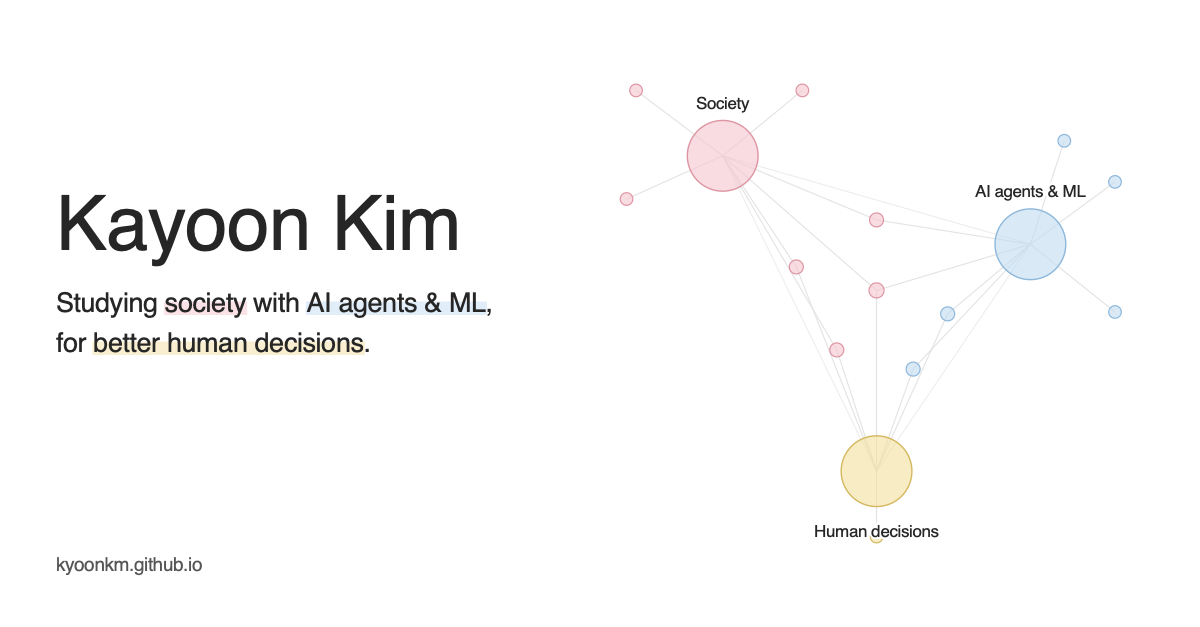
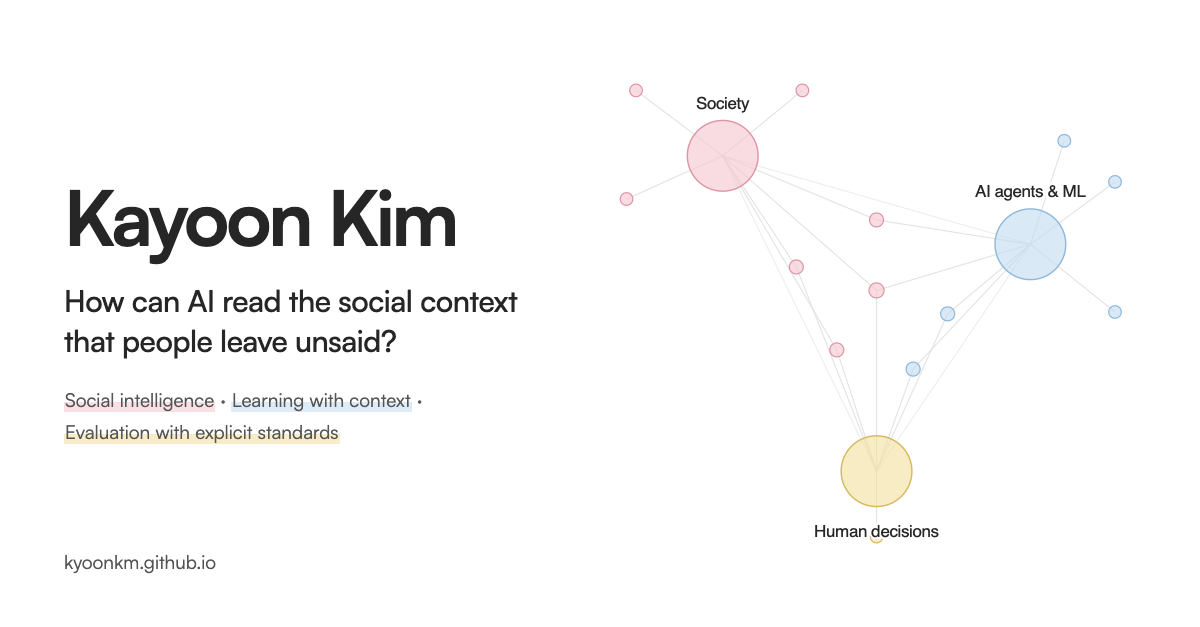
Update bio, tagline and research interests to match the SOP
- Bio: M.S. completed (2026); RML group at ELLIS/MPI-IS is now past tense
- Tagline: "How can AI read the social context that people leave unsaid?"
- Research areas renamed to Social intelligence, Learning with context,
  Evaluation with explicit standards, shown as filters under the tagline
- HALLMARK links to arXiv; Sim-DSE shown as AutomotiveUI '26 Adjunct
  (Works in Progress) with co-first authors marked
- Petition-claims poster has no PDF, so it is no longer a link
- Drop the unused "interviews" method that broke the dev-mode data check
- Refresh the link-preview card text; footer dated November 2026

diff --git a/data/research-graph.ts b/data/research-graph.ts
@@ -18,6 +18,8 @@ export type WorkType =
   | "Manuscript"
   | "Work in progress"
   | "Poster"
+  /** Adjunct proceedings. The venue names it, so the type label is not printed. */
+  | "Adjunct"
   | "Project";
 
 export interface Area {
@@ -87,37 +89,38 @@ export interface Work {
   featured?: boolean;
   /** At most 140 characters. */
   summary: string;
-  href: string;
+  /** Omit when the work has no public record to open; it renders as plain text. */
+  href?: string;
   sample?: boolean;
 }
 
 export const AREAS: Area[] = [
   {
     id: "society",
-    label: "Society",
+    label: "Social intelligence",
     x: 665,
     y: 130,
     labelSide: "above",
     blurb:
-      "Sociology and computational social science: how people voice grievances, mobilise, and settle on shared norms.",
+      "Whether AI can read the social context people leave unsaid: grievances, norms, and whose preferences count.",
   },
   {
     id: "ai",
-    label: "AI agents & ML",
+    label: "Learning with context",
     x: 1065,
     y: 245,
     labelSide: "above",
     blurb:
-      "LLM agents, preference learning, and testing whether AI systems can actually be trusted.",
+      "Training models on data that keeps its context: human feedback, expert preferences, and individual differences.",
   },
   {
     id: "decisions",
-    label: "Human decisions",
+    label: "Evaluation with explicit standards",
     x: 865,
     y: 540,
     labelSide: "below",
     blurb:
-      "HCI and decision support: tools that help people choose well, alone and together.",
+      "Evaluations that state what counts as success, so a score says what a system can be trusted to do.",
   },
 ];
 
@@ -127,7 +130,6 @@ export const METHODS: Method[] = [
   { id: "nlp", label: "NLP" },
   { id: "text", label: "text mining" },
   { id: "survey", label: "surveys" },
-  { id: "interviews", label: "interviews" },
   { id: "bo", label: "Bayesian opt." },
   { id: "stats", label: "statistical modelling" },
   { id: "eval", label: "benchmarking" },
@@ -157,7 +159,7 @@ export const WORKS: Work[] = [
     short: "HALLMARK",
     year: 2026,
     type: "Manuscript",
-    areas: ["ai"],
+    areas: ["decisions"],
     methods: ["llm", "eval"],
     venue: "ICLR 2027",
     status: "Under review",
@@ -170,7 +172,7 @@ export const WORKS: Work[] = [
     featured: true,
     summary:
       "Separates three distinct ways automated citation verifiers fail, and benchmarks models against each of them.",
-    href: "/publications#hallmark",
+    href: "https://arxiv.org/abs/2607.18360",
   },
   {
     id: "sim-dse",
@@ -178,10 +180,10 @@ export const WORKS: Work[] = [
       "Sim-DSE: Mediating Multi-User Automations in Cars through Simulation-Augmented Decision Space Exploration",
     short: "Sim-DSE",
     year: 2026,
-    type: "Poster",
-    areas: ["ai", "decisions"],
+    type: "Adjunct",
+    areas: ["society", "decisions"],
     methods: ["sim", "survey"],
-    venue: "AutomotiveUI 2026 Adjunct (Works in Progress), 94–99",
+    venue: "AutomotiveUI '26 Adjunct (Works in Progress), 94–99",
     authors: [
       { name: "Jan Henry Belz", equal: true },
       { name: "Kayoon Kim", self: true, equal: true },
@@ -243,7 +245,7 @@ export const WORKS: Work[] = [
     short: "Dropout model",
     year: 2023,
     type: "Project",
-    areas: ["society", "ai"],
+    areas: ["ai"],
     methods: ["stats"],
     summary:
       "A Kalman-filter state-space model over intensive longitudinal data, flagging STEM dropout risk early enough to act.",
@@ -279,7 +281,7 @@ export const WORKS: Work[] = [
     short: "Recommenders",
     year: 2021,
     type: "Project",
-    areas: ["decisions"],
+    areas: ["ai"],
     methods: ["stats"],
     summary:
       "Implementations of the standard recommendation algorithms, each paired with a review of the paper it comes from.",
@@ -300,7 +302,6 @@ export const WORKS: Work[] = [
     authors: [{ name: "Kayoon Kim", self: true }],
     summary:
       "Which claims South Koreans brought to the national petition platform, and how that repertoire shifted over four years.",
-    href: "/publications#petition-claims",
   },
   {
     id: "covid-memory",

diff --git a/components/AboutSection.tsx b/components/AboutSection.tsx
@@ -44,10 +44,10 @@ export default function AboutSection() {
             <div className="space-y-5">
               <h2>Bio</h2>
               <p>
-                My research vision is to ensure humanity benefits from AI and algorithms that facilitate interactions between people and systems in everyday life. I characterize problems and develop data-driven solutions, and work on enhancing human decision-making while preventing marginalization through algorithms and design.
+                Having crossed from sociology into computer science, I aim to build models that understand social relations and signals, train them on data that keeps them, and design evaluations that test whether they do.
               </p>
               <p>
-                Currently a student researcher in the <a href="https://is.mpg.de/rml" target="_blank" rel="noopener noreferrer" className="rn-link">Robust Machine Learning group</a> at <a href="https://institute-tue.ellis.eu/en" target="_blank" rel="noopener noreferrer" className="rn-link">ELLIS Institute Tübingen</a> and the <a href="https://is.mpg.de/" target="_blank" rel="noopener noreferrer" className="rn-link">Max Planck Institute for Intelligent Systems</a>, and an M.S. student in Quantitative Data Science at the University of Tübingen. Previously a research intern at Porsche Human-Centered AI Research and <a href="https://www.bosch-ai.com/" target="_blank" rel="noopener noreferrer" className="rn-link">Bosch Research (BCAI)</a>, and a research assistant at the <a href="https://uni-tuebingen.de/fakultaeten/wirtschafts-und-sozialwissenschaftliche-fakultaet/faecher/fachbereich-sozialwissenschaften/methodenzentrum/institut/" target="_blank" rel="noopener noreferrer" className="rn-link">Methods Center</a>. My bachelor's in Sociology and Computer Science is where the interdisciplinary thread starts; earlier projects were at{' '}
+                M.S. in Quantitative Data Science, University of Tübingen (2026). Previously a research assistant in the <a href="https://is.mpg.de/rml" target="_blank" rel="noopener noreferrer" className="rn-link">Robust Machine Learning group</a> at <a href="https://institute-tue.ellis.eu/en" target="_blank" rel="noopener noreferrer" className="rn-link">ELLIS Institute Tübingen</a> and the <a href="https://is.mpg.de/" target="_blank" rel="noopener noreferrer" className="rn-link">Max Planck Institute for Intelligent Systems (MPI-IS)</a>; a research intern at Porsche Human-Centered AI Research and <a href="https://www.bosch-ai.com/" target="_blank" rel="noopener noreferrer" className="rn-link">Bosch Research (BCAI)</a>, and a research assistant at the <a href="https://uni-tuebingen.de/fakultaeten/wirtschafts-und-sozialwissenschaftliche-fakultaet/faecher/fachbereich-sozialwissenschaften/methodenzentrum/institut/" target="_blank" rel="noopener noreferrer" className="rn-link">Methods Center</a>. I hold a bachelor's in Sociology and Computer Science; earlier projects were at{' '}
                 <a href="http://hike.cau.ac.kr/" target="_blank" rel="noopener noreferrer" className="rn-link">
                   HIKE Lab
                 </a>,{' '}

diff --git a/data/projects.ts b/data/projects.ts
@@ -101,7 +101,7 @@ export const PROJECTS: Project[] = [
      * other — and /publications is where that distinction is carried.
      */
     outcomes: [
-      "AutomotiveUI 2026 Works in Progress poster",
+      "AutomotiveUI '26 Adjunct (Works in Progress)",
       "Whose Preferences Survive?, in preparation for ACL 2027",
     ],
     status: "In progress",
@@ -123,7 +123,7 @@ export const PROJECTS: Project[] = [
       '- Contextual Inquiry (Field Test)\n' +
       'For real-world, field-test oriented application, I trained a compact in-car decision model in three stages. First, I performed supervised fine-tuning on scenarios that participants accepted (“Yes”) to teach the model to generate structured cabin settings with clear rationales. Next, I applied a Chain-of-Hindsight–style revision step using disagreed (“No”) feedback to learn targeted corrections, and finally used KTO preference alignment on balanced Yes/No labels to shift the model toward outputs that match human acceptability. To evaluate performance, I conducted a field test with interaction design experts at Porsche.\n\n' +
       'Where this work has gone\n\n' +
-      '• Sim-DSE: Mediating Multi-User Automations in Cars through Simulation-Augmented Decision Space Exploration — a Works in Progress poster at AutomotiveUI 2026, with Jan Henry Belz as an equal contributor, on the simulation-plus-survey mapping of the decision space into design guidelines.\n' +
+      '• Sim-DSE: Mediating Multi-User Automations in Cars through Simulation-Augmented Decision Space Exploration — AutomotiveUI \'26 Adjunct (Works in Progress), co-first authored with Jan Henry Belz, on the simulation-plus-survey mapping of the decision space into design guidelines.\n' +
       '• Whose Preferences Survive When LLM Agents Negotiate a Shared Physical Space? — a sole-authored paper in preparation for ACL 2027, on whose preferences survive when the agents negotiate over a shared cabin.' ,
     image: "/images/projects/reasoning_cluster.webp",
     thumb: "/images/projects/thumbs/reasoning_cluster.webp",

diff --git a/components/research-hero/ThesisPhrases.tsx b/components/research-hero/ThesisPhrases.tsx
@@ -8,15 +8,17 @@ const AREA_BY_ID = Object.fromEntries(AREAS.map((a) => [a.id, a])) as Record<
   (typeof AREAS)[number]
 >;
 
-const PHRASES: { area: AreaId; text: string }[] = [
-  { area: 'society', text: 'society' },
-  { area: 'ai', text: 'AI agents & ML' },
-  { area: 'decisions', text: 'better human decisions' },
-];
+/* The three research interests, in the order the slides give them. Each
+   opens and filters its area, as the thesis phrases used to. */
+const PHRASES: { area: AreaId; text: string }[] = AREAS.map((a) => ({
+  area: a.id,
+  text: a.label,
+}));
 
 /**
- * The interactive part of the text column: the thesis sentence (each phrase
- * opens and filters its area) plus the aria-live filter note.
+ * The interactive part of the text column: the thesis question, the three
+ * research interests (each opens and filters its area), and the aria-live
+ * filter note.
  */
 export default function ThesisPhrases() {
   const { area, openArea, closeAreaSoon, toggleFilter, clearFilter } = useResearchState();
@@ -52,7 +54,10 @@ export default function ThesisPhrases() {
   return (
     <>
       <p className="rn-thesis">
-        Studying {phrase(0)} with {phrase(1, ',')} for {phrase(2, '.')}
+        How can AI read the social context that people leave unsaid?
+      </p>
+      <p className="rn-interests">
+        {phrase(0, ' \u00b7')} {phrase(1, ' \u00b7')} {phrase(2)}
       </p>
       <p className="rn-filter-note" aria-live="polite">
         {area ? (

diff --git a/app/publications/page.tsx b/app/publications/page.tsx
@@ -20,7 +20,7 @@ export const metadata: Metadata = {
  */
 const GROUPS: { id: string; heading: string; types: Work['type'][] }[] = [
   { id: 'journal', heading: 'Journal articles', types: ['Journal article'] },
-  { id: 'venue', heading: 'Conference & workshop', types: ['Poster'] },
+  { id: 'venue', heading: 'Conference & workshop', types: ['Adjunct', 'Poster'] },
   {
     id: 'preprint',
     heading: 'Manuscripts & work in progress',
@@ -54,7 +54,7 @@ function Byline({ authors }: { authors: Author[] }) {
      shared first authorship and shared supervision gets one footnote line
      instead of two stacked ones. */
   const notes = [
-    authors.some((a) => a.equal) ? '*equal contribution' : null,
+    authors.some((a) => a.equal) ? '*co-first authors' : null,
     authors.some((a) => a.advisor) ? '\u2020joint senior authors' : null,
   ].filter(Boolean);
   return (
@@ -91,7 +91,10 @@ function Byline({ authors }: { authors: Author[] }) {
 const spoken = (w: Work) => w.type === 'Poster';
 
 function metaParts(w: Work) {
-  const restatesType = !!w.status && w.status.toLowerCase().includes(w.type.toLowerCase());
+  const t = w.type.toLowerCase();
+  const restatesType =
+    (!!w.status && w.status.toLowerCase().includes(t)) ||
+    (!!w.venue && w.venue.toLowerCase().includes(t));
   return [
     restatesType ? null : { text: w.type, className: undefined },
     w.venue ? { text: w.venue, className: 'rn-ve' } : null,

diff --git a/components/research-hero/ResearchGraph.tsx b/components/research-hero/ResearchGraph.tsx
@@ -657,11 +657,14 @@ export default function ResearchGraph() {
 
 function TipBody({ node }: { node: GraphNode }) {
   const w = node.work!;
-  const external = w.href.startsWith('http');
+  const external = !!w.href && w.href.startsWith('http');
   /* Venue and status, matching metaParts() in SelectedWork: the tooltip used
      to show type and year only, omitting the field an academic reader ranks
      on. A status that already names the type replaces it. */
-  const restatesType = !!w.status && w.status.toLowerCase().includes(w.type.toLowerCase());
+  const t = w.type.toLowerCase();
+  const restatesType =
+    (!!w.status && w.status.toLowerCase().includes(t)) ||
+    (!!w.venue && w.venue.toLowerCase().includes(t));
   return (
     <>
       <p className="rn-eyebrow">
@@ -677,6 +680,7 @@ function TipBody({ node }: { node: GraphNode }) {
             {AREA_BY_ID[a].label}
           </span>
         ))}
+        {w.href ? (
         <a
           className="rn-go"
           href={w.href}
@@ -689,6 +693,7 @@ function TipBody({ node }: { node: GraphNode }) {
         >
           Open →
         </a>
+        ) : null}
       </div>
     </>
   );

diff --git a/components/research-hero/SelectedWork.tsx b/components/research-hero/SelectedWork.tsx
@@ -30,7 +30,10 @@ function track(name: string, params: Record<string, unknown>) {
  * preparation".
  */
 function metaParts(w: Work) {
-  const restatesType = !!w.status && w.status.toLowerCase().includes(w.type.toLowerCase());
+  const t = w.type.toLowerCase();
+  const restatesType =
+    (!!w.status && w.status.toLowerCase().includes(t)) ||
+    (!!w.venue && w.venue.toLowerCase().includes(t));
   return [
     restatesType ? null : { text: w.type, className: '' },
     w.venue ? { text: w.venue, className: 'rn-ve' } : null,
@@ -50,7 +53,7 @@ function Byline({ authors }: { authors: NonNullable<Work['authors']> }) {
      shared first authorship and shared supervision gets one footnote line
      instead of two stacked ones. */
   const notes = [
-    authors.some((a) => a.equal) ? '*equal contribution' : null,
+    authors.some((a) => a.equal) ? '*co-first authors' : null,
     authors.some((a) => a.advisor) ? '\u2020joint senior authors' : null,
   ].filter(Boolean);
   return (

diff --git a/app/layout.tsx b/app/layout.tsx
@@ -33,7 +33,7 @@ const geistMono = Geist_Mono({
 });
 
 const DESCRIPTION =
-  "Kayoon Kim — researcher in human–AI interaction, AI evaluation, social intelligence and responsible AI at ELLIS Institute Tübingen.";
+  "Kayoon Kim — researcher in human–AI interaction, AI evaluation, social intelligence and responsible AI.";
 const SITE = "https://kyoonkm.github.io";
 
 /* Without these, a link pasted into LinkedIn, Slack or email rendered as a
@@ -53,7 +53,7 @@ export const metadata: Metadata = {
         url: "/og-kayoon-kim.png",
         width: 1200,
         height: 627,
-        alt: "Kayoon Kim. Studying society with AI agents and ML, for better human decisions.",
+        alt: "Kayoon Kim. How can AI read the social context that people leave unsaid?",
       },
     ],
   },

diff --git a/app/globals.css b/app/globals.css
@@ -167,6 +167,15 @@ html {
   text-wrap: balance;
 }
 
+/* The research interests under the thesis question: the area filters. */
+.rn-interests {
+  font-size: 15px;
+  line-height: 1.6;
+  color: var(--ink-2);
+  margin: 0;
+  max-width: 34ch;
+}
+
 /* Keeps a phrase and its trailing punctuation on one line. */
 .rn-nb {
   white-space: nowrap;

diff --git a/components/Footer.tsx b/components/Footer.tsx
@@ -34,7 +34,7 @@ export default function Footer() {
           </nav>
         </div>
 
-        <p className="rn-foot-meta">Last updated September 2026</p>
+        <p className="rn-foot-meta">Last updated November 2026</p>
       </div>
     </footer>
   );
